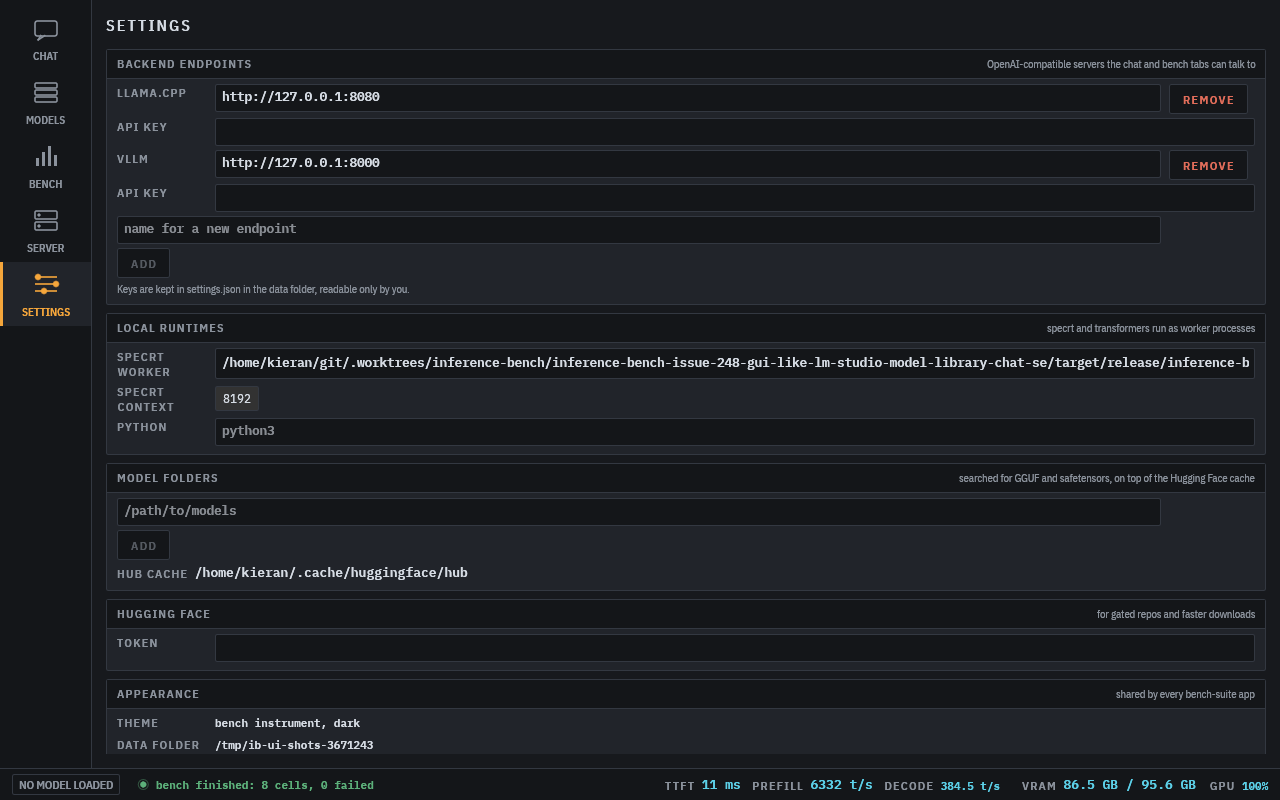
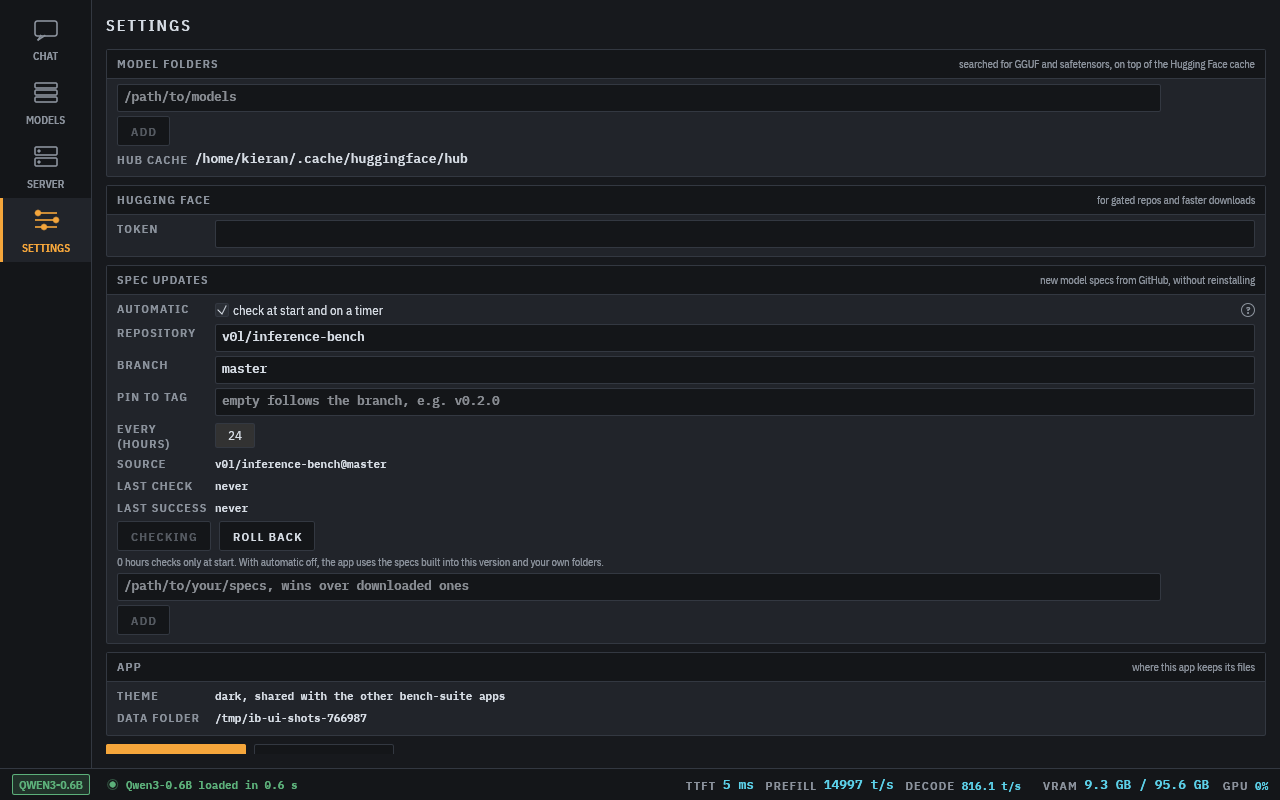
Screenshots and README for the new app UI

diff --git a/crates/ui/src/tests.rs b/crates/ui/src/tests.rs
@@ -632,10 +632,15 @@ fn screenshots_with_real_data() {
     shot(&mut h, "models");
 
     let qwen = h.state().library.iter().find(|m| m.name == "Qwen3-0.6B").cloned().expect("Qwen3-0.6B in the hub cache");
+    pump_until(&mut h, 20, "gpu", |a| !a.gpu.is_empty());
+    h.state_mut().open_load_dialog(&qwen);
+    h.state_mut().load.as_mut().unwrap().ctx = 16384;
+    shot(&mut h, "load-dialog");
     {
         let app = h.state_mut();
+        app.load = None;
         app.chat.pick("Qwen3-0.6B");
-        app.load_model(&qwen);
+        app.load_model_with(&qwen, 16384);
         app.tab = Tab::Chat;
     }
     pump_until(&mut h, 120, "load", |a| a.loaded().is_some());
@@ -668,6 +673,7 @@ fn screenshots_with_real_data() {
     }
     shot(&mut h, "server");
 
+    h.state_mut().server.stop();
     h.state_mut().unload();
     h.state_mut().tab = Tab::Settings;
     shot(&mut h, "settings");
@@ -830,7 +836,7 @@ fn screenshots_of_the_server_and_logs_tabs() {
     shot(&mut h, "server");
     h.state_mut().server.pane = crate::server::Pane::Logs;
     h.state_mut().logs_ui.level = tracing::Level::DEBUG;
-    shot(&mut h, "logs");
+    shot(&mut h, "server-logs");
     h.state_mut().server.stop();
 }
 

diff --git a/README.md b/README.md
@@ -2,27 +2,27 @@
 
 # inference-bench
 
-A local LLM app that runs models on its own CUDA engine, `specrt`, in process: chat, a model
-library, an OpenAI-compatible server, and a benchmark that measures prefill and decode tokens per
-second, time to first token and peak memory, with the real error when a model cannot run
-(including "unsupported architecture").
+A local LLM server and desktop app, in the style of LM Studio, on its own CUDA engine, `specrt`:
+a searchable model library with downloads, chat, and an OpenAI-compatible server. A new model is a
+TOML spec, and specs update themselves from GitHub.
 
 Part of the [bench suite](https://github.com/v0l/bench-suite), a launcher that installs, updates
 and starts it alongside the other bench tools.
 
-## Engine and bench targets
+## Engine
 
 Every model the app loads, chats with or serves runs on the native engine in `crates/specrt`, where
 a new model is a TOML file. It runs on a dedicated thread inside the process: a cancelled reply stops
 at the next decode chunk, and a CUDA error, an out of memory or a panic in the engine comes back as an
 error on that request instead of taking the app down.
 
-Other engines (llama.cpp, vLLM, LM Studio, any OpenAI-compatible server) are only benchmark targets,
-for comparing their speed with ours. They are never used for chat, the library or the server.
+Comparing our speed with llama.cpp or vLLM on the same model and hardware is dev tooling, not an app
+feature: it lives in the `inference-bench bench`, `batch` and `matrix` commands below and has no
+screen. The app never talks to another engine.
 
-The name `specrt` is kept on purpose, even though it is the only engine the app runs. It names the spec-driven design and appears in saved results, the `specrt_ctx` setting and docs/spark-matrix.md, so renaming would break result history and old settings for no visible gain. Revisit only if the engine stops being spec-driven; the plan then is crate `inference-bench-engine`, a serde alias for `specrt_ctx` and `specrt` accepted as an alias in stored results.
+The name `specrt` is kept on purpose, even though it is the only engine the app runs. It names the spec-driven design and appears in saved results and docs/spark-matrix.md, so renaming would break result history for no visible gain. Revisit only if the engine stops being spec-driven; the plan then is crate `inference-bench-engine` and `specrt` accepted as an alias in stored results.
 
-## Command line
+## Command line (dev tooling)
 
 ```
 inference-bench run --model Qwen/Qwen3-0.6B --prompt-file p.txt
@@ -37,27 +37,32 @@ default) or `openai:URL`. A matrix file lists targets as `kind = "native"` or `k
 `logit-diff` compares our prompt logits with a reference written by
 `crates/specrt/scripts/reference.py`.
 
-Results are saved as JSON in the data directory (`INFERENCE_BENCH_DIR` to move it) and shown by
-`inference-bench-ui`.
+Results are saved as JSON in the data directory (`INFERENCE_BENCH_DIR` to move it).
 
 ## Window
 
-`inference-bench-ui` is a local LLM app in the style of LM Studio, with a rail of five tabs. Every
-slow call (disk scan, Hugging Face, model load, generation, bench, GPU poll) runs off the UI thread.
+`inference-bench-ui` follows the LM Studio flow: pick a model, load it with per-load options, then
+chat with it or serve it. A rail of four pages; every slow call (disk scan, Hugging Face, model load,
+generation, GPU poll) runs off the UI thread. The design and its reasons are in
+`docs/gui/redesign.md`.
 
-- Chat: pick a model, load or unload, streaming markdown replies, system prompt,
-  temperature, top-p, seed and max tokens, a context bar, chat template toggle, saved conversations,
-  regenerate, stop and copy. TTFT, prefill and decode tok/s sit under each reply and in the status bar
-  with VRAM and GPU load (`nvidia-smi`).
-- Models: everything found in the Hugging Face cache, GGUF folders and the spec files, with
-  size, architecture, quant, context length and a supported or unsupported architecture badge for
-  the native engine and for the llama.cpp and vLLM bench targets. Each spec says where it came from (your folder, updated from GitHub, or built in), and "check specs now" fetches new ones. Search and download from Hugging Face with resume, reveal in folder, delete.
-- Bench: pick models, targets (the native engine and the bench targets from settings) and prompt lengths, run with live progress, results table and charts,
-  compare two runs, export JSON or CSV.
-- Server: an OpenAI-compatible server (`/v1/models`, `/v1/chat/completions`, `/v1/completions`) for
-  the loaded model, with port, API key, LAN toggle and a request log.
-- Settings: native engine context length, bench target URLs and API keys (`settings.json`, mode
-  0600), model folders, Hugging Face token, spec updates (on or off, repository, branch, tag pin, interval, your own spec folders, roll back).
+- Models: everything found in the Hugging Face cache, GGUF folders and the spec files, with size,
+  architecture, quant, context length and whether the engine runs it. A search field filters the list
+  by name, architecture, quant or format as you type, and "discover" searches Hugging Face and
+  downloads with resume. Each spec says where it came from (your folder, updated from GitHub, or
+  built in). Details show what the model is and what loading it costs: layers, parameters, memory
+  against context, every spec field.
+- Load dialog: opened from a model card, the details page or the model bar. A context length slider
+  runs from 512 to the model's own maximum, with weights, kv cache and state against the GPU's free
+  memory, red when it does not fit. The choice is remembered per model.
+- Chat: a model bar with the loaded model, its context, a searchable picker, unload and VRAM. Streaming
+  markdown replies, system prompt, temperature, top-p, seed and max tokens, a context bar, saved
+  conversations, regenerate, stop and copy, image and video attachments for vision models. TTFT,
+  prefill and decode tok/s sit under each reply and in the status bar.
+- Server: the same model bar, an OpenAI-compatible server (`/v1/models`, `/v1/chat/completions`,
+  `/v1/completions`) for the loaded model with port, API key and LAN toggle, a request table and the
+  app logs. Multi-host placement from `server.toml` in the data folder is shown read only.
+- Settings: model folders, Hugging Face token and spec updates (`settings.json`, mode 0600).
 
 ## Spec updates
 
@@ -67,13 +72,14 @@ snapshot of the specs, so a first run offline works too. `inference-bench specs 
 update` and `specs rollback` manage them from the command line. How it works, the settings and what
 goes over the network: `docs/specs-update.md`.
 
-![chat](docs/gui/chat.png)
 ![models](docs/gui/models.png)
-![bench](docs/gui/bench-results.png)
+![load dialog](docs/gui/load-dialog.png)
+![chat](docs/gui/chat.png)
+![server](docs/gui/server.png)
 
 ## Layout
 
-- `crates/core`: the in-process native engine thread, the `Target` trait and the OpenAI-compatible bench target, `RunResult`, matrix runner, logit diff, settings, library, result store.
+- `crates/core`: the in-process native engine thread, the `Target` trait and the OpenAI-compatible target used by the dev bench commands, `RunResult`, matrix runner, logit diff, settings, library, result store.
 - `crates/cli`: the `inference-bench` command.
 - `crates/ui`: the `inference-bench-ui` window.
 - `crates/server`: the OpenAI-compatible server for the native engine. See `docs/server.md`.

diff --git a/docs/spark-matrix.md b/docs/spark-matrix.md
@@ -174,7 +174,7 @@ Where specrt stands:
 
 Follow-ups: batched paged decode attention (#272), decode at long context (#273), 1024-token prefill against vLLM and worker overhead (#274).
 
-Harness changes from this run: bench completions send `ignore_eos` so every engine decodes exactly `max_tokens`, `inference-bench run --prompt-len N` uses the synthetic prompt, `inference-bench batch` runs N concurrent requests per size against any backend, and the worker backends get the raw prompt on `generate` (they applied the chat template, which OpenAI completions do not). vLLM needs `--no-enable-prefix-caching` for repeated-prompt benches, or TTFT drops to the cache hit. The Bench tab already runs vLLM as an endpoint (Settings, backend endpoints: URL, API key; the model id is the HF repo).
+Harness changes from this run: bench completions send `ignore_eos` so every engine decodes exactly `max_tokens`, `inference-bench run --prompt-len N` uses the synthetic prompt, `inference-bench batch` runs N concurrent requests per size against any backend, and the worker backends get the raw prompt on `generate` (they applied the chat template, which OpenAI completions do not). vLLM needs `--no-enable-prefix-caching` for repeated-prompt benches, or TTFT drops to the cache hit. The `inference-bench bench --target openai:URL` command runs vLLM as an endpoint (the model id is the HF repo).
 
 ## Decode at long context (issue #273)
 
